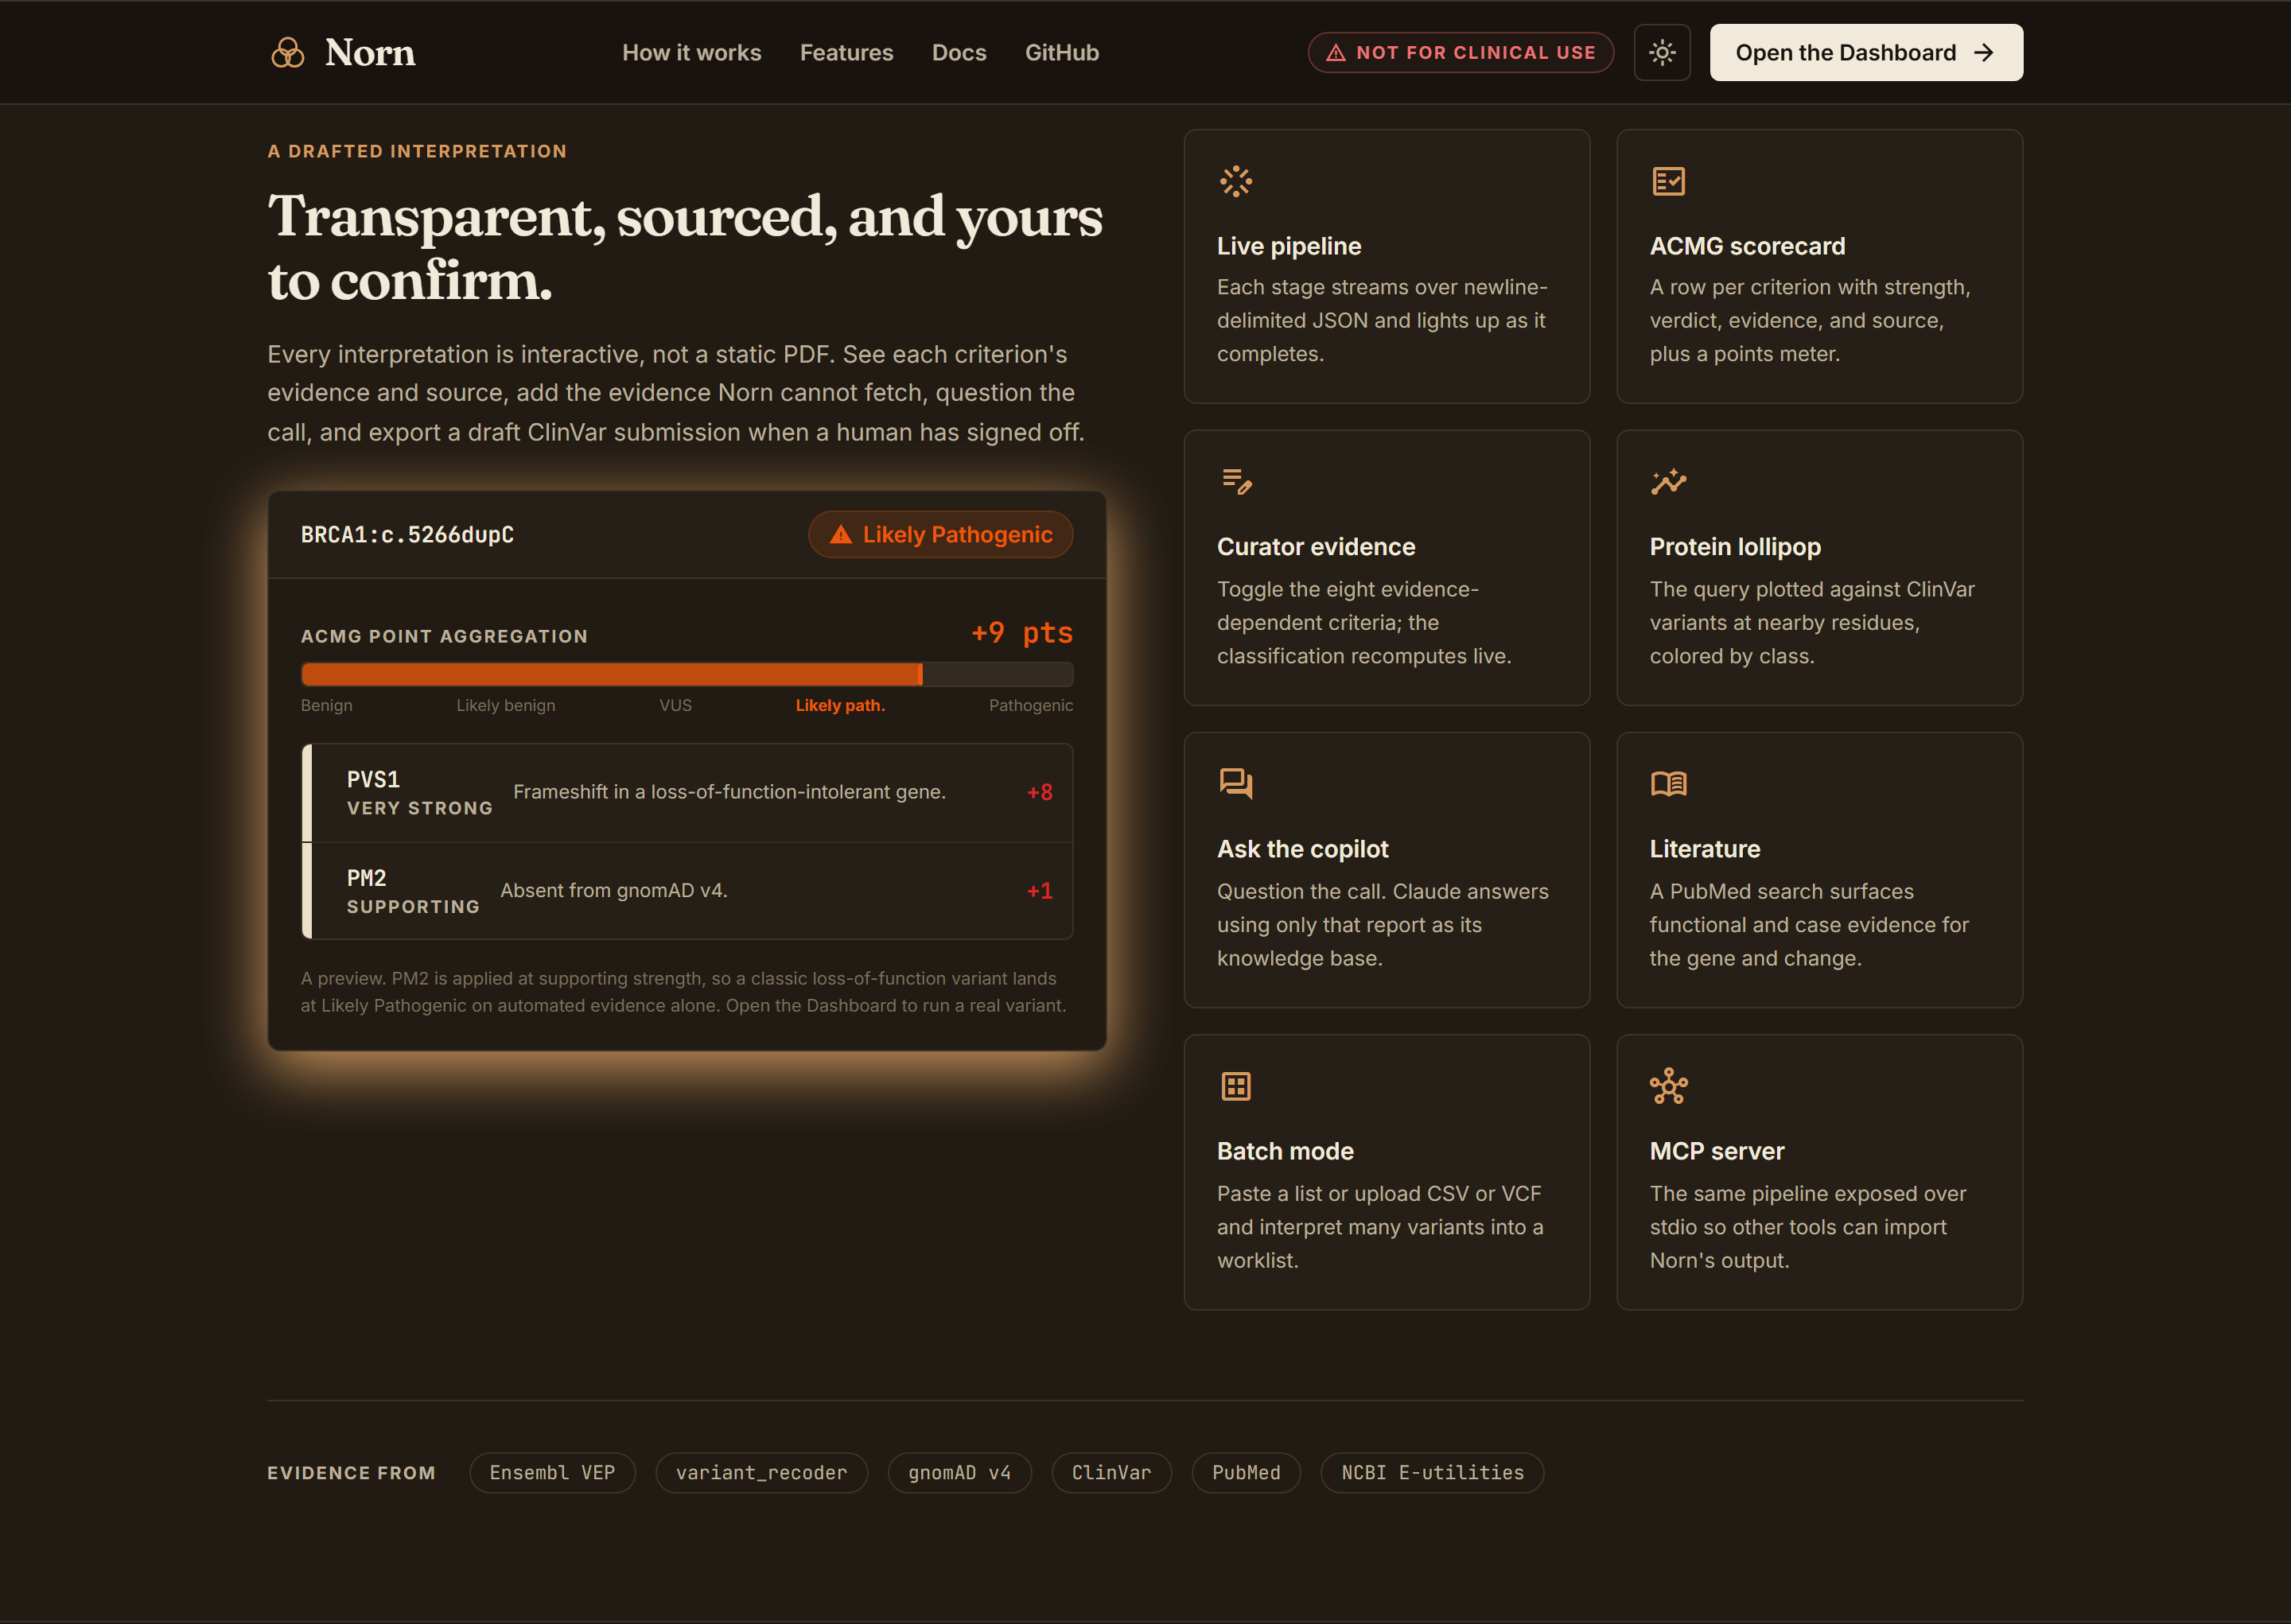
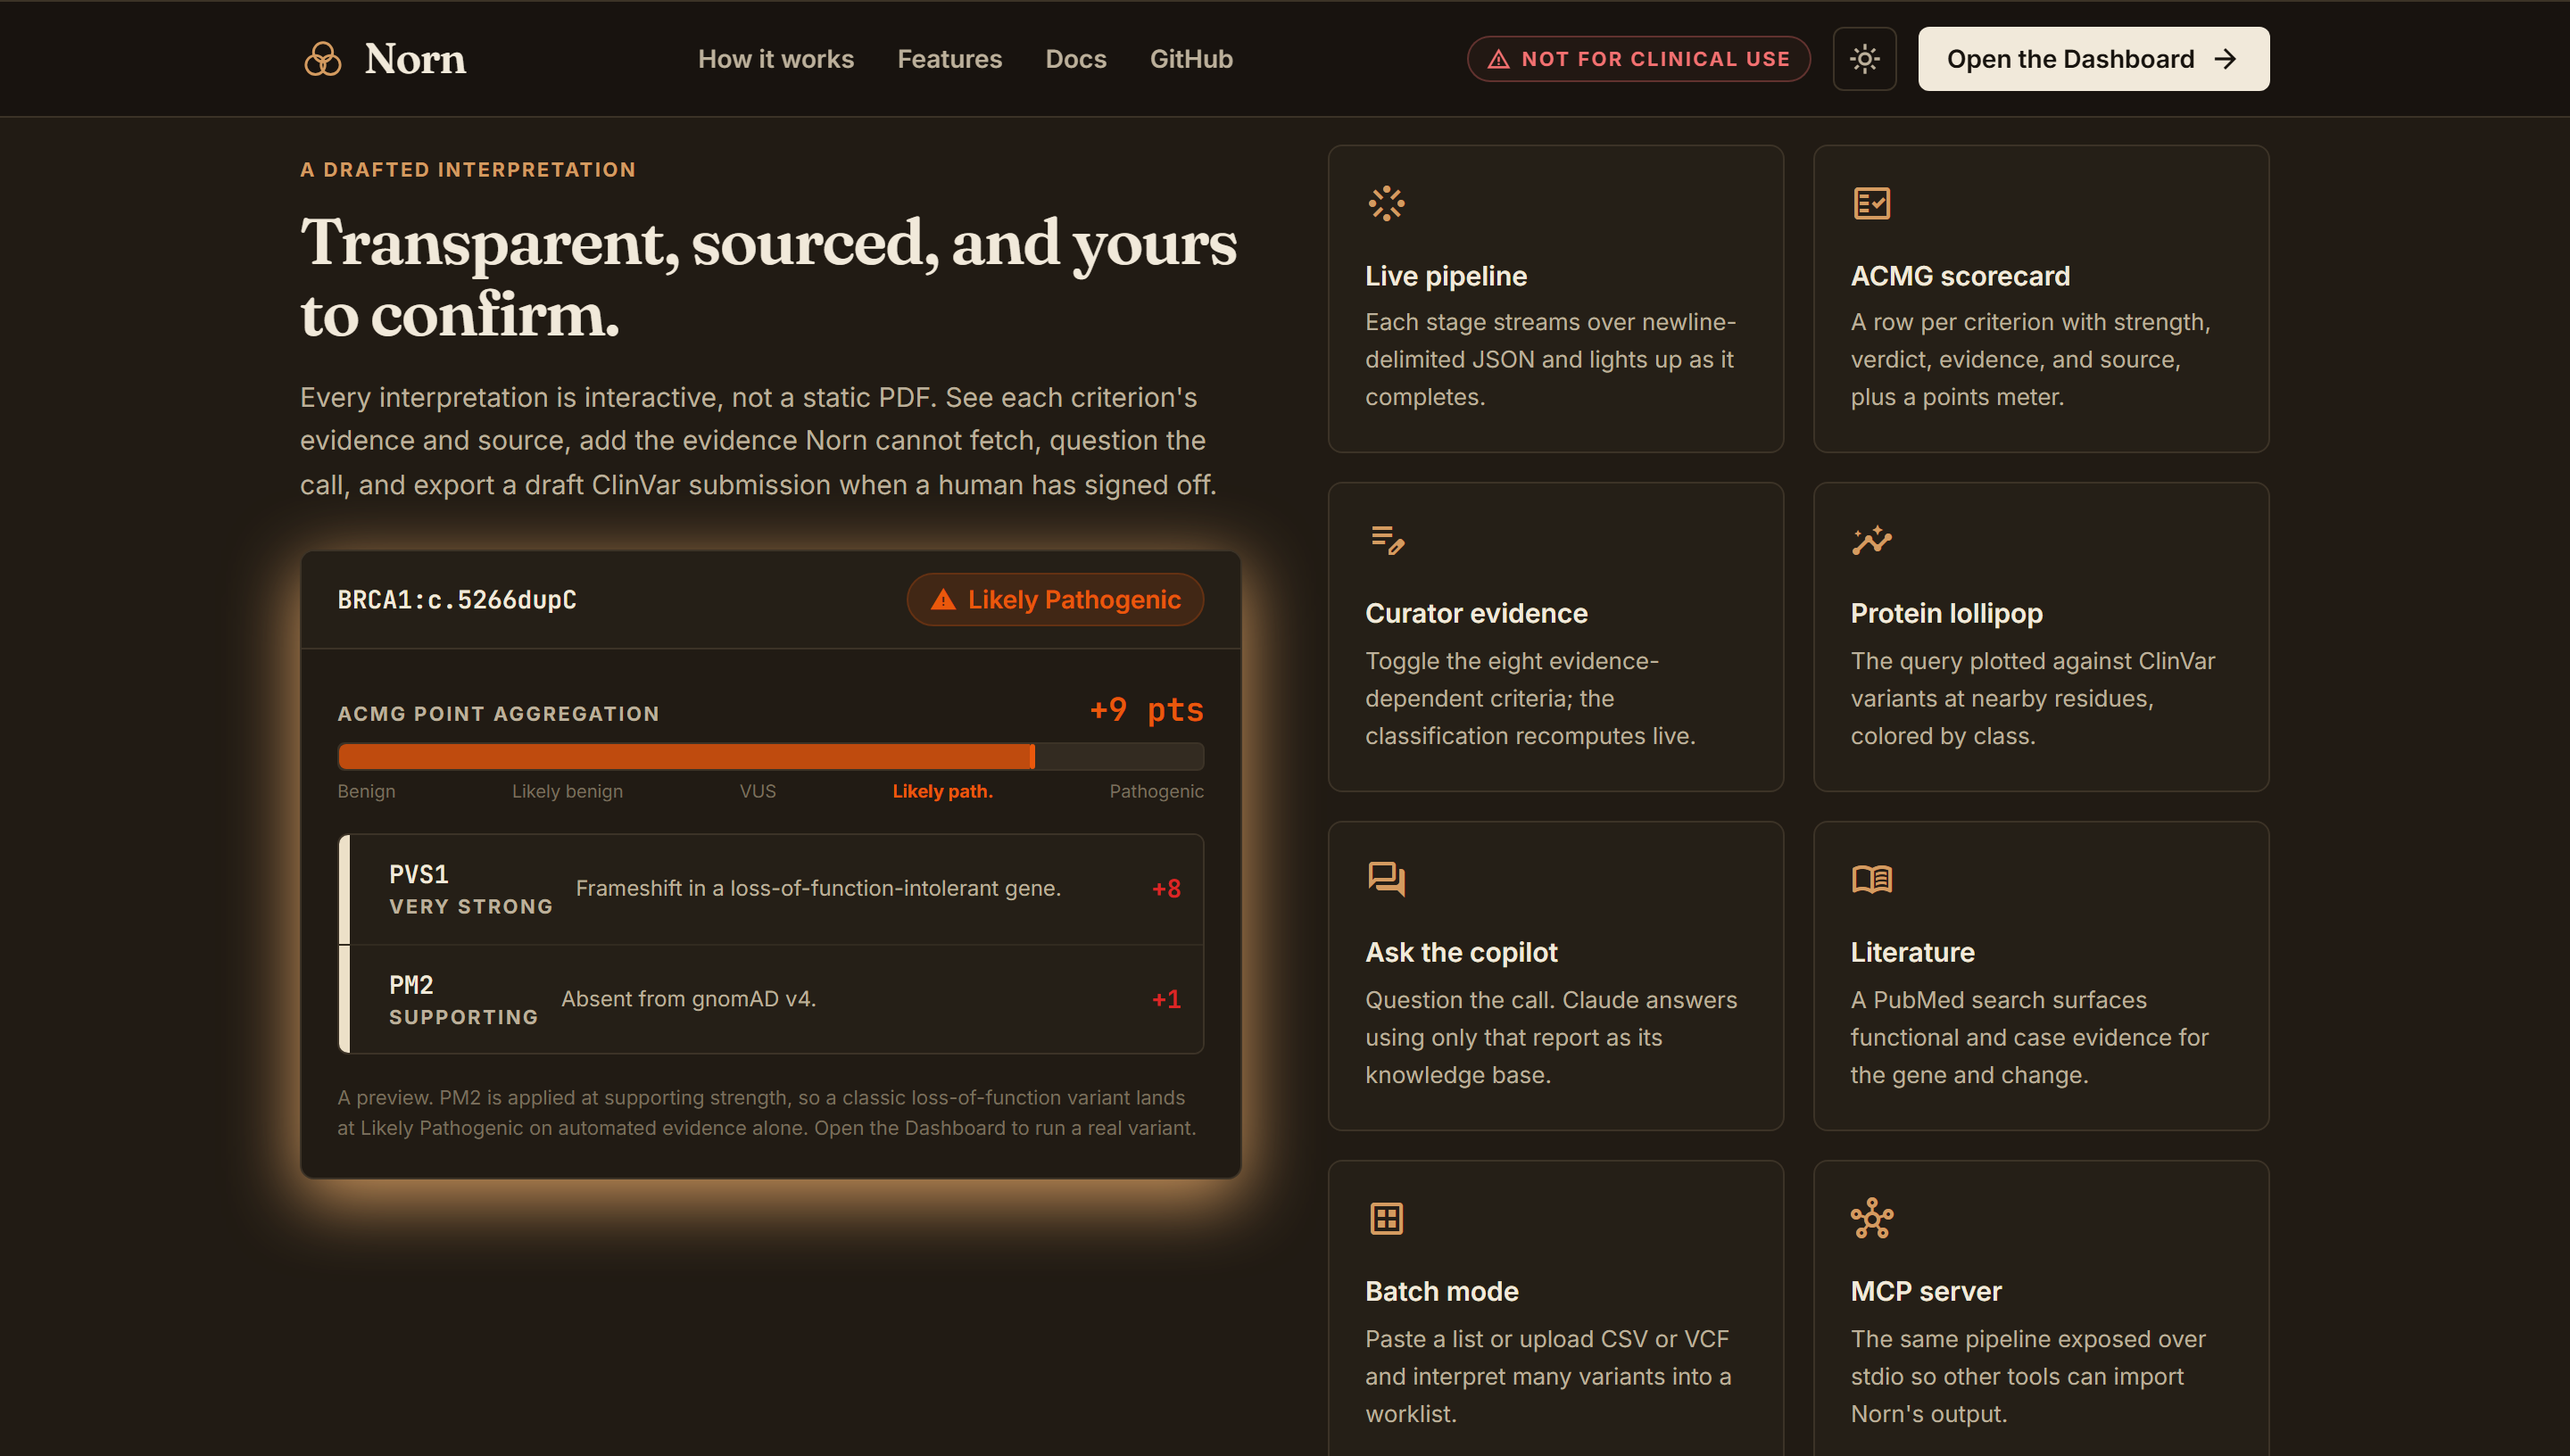
docs: reorder README row 2 to 1 2 4 3 5 6 and crop the drafted-interpretation image
Swap the second image row so it reads landing-drafted then 3D, and crop the
drafted-interpretation screenshot's bottom (2880x2042 to 2880x1632) so it shares
the 3D image's aspect ratio and renders at the same size beside it.

diff --git a/README.md b/README.md
@@ -13,9 +13,9 @@ Vignesh Nagarajan was selected as 1 of 500 builders (about half of them PhDs, po
   <img src="docs/ui-dashboard.png" width="49%" alt="Norn interpretation dashboard with ACMG point aggregation and criteria" />
 </p>
 <p align="center">
-  <img src="docs/ui-3d.png" width="49%" alt="Norn 3D structure: the variant residue highlighted on the AlphaFold model" />
-  &nbsp;
   <img src="docs/ui-landing-drafted.png" width="49%" alt="Norn landing: a drafted interpretation, sourced and yours to confirm" />
+  &nbsp;
+  <img src="docs/ui-3d.png" width="49%" alt="Norn 3D structure: the variant residue highlighted on the AlphaFold model" />
 </p>
 <p align="center">
   <img src="docs/ui-batch.png" width="49%" alt="Norn batch worklist with classifications and points" />